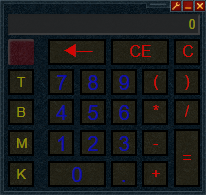
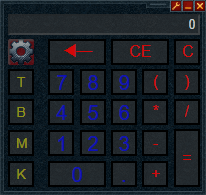
Messed something up during update.

diff --git a/src/index.css b/src/index.css
@@ -10,9 +10,9 @@ a:hover  {color: #a19100; overflow: hidden; white-space: nowrap; text-overflow: 
 /* Button Looks */
 #calculator:focus {outline: none;}
 #display {color: #ffffff; background-color: #383838; text-align: right;}
-#status {color: #fffb0083; background: url('../images/settingscog.png') 0px 0px / cover; background-color: #383838; text-align: center; vertical-align: center; padding: 3px; width: 20px; height: 20px; box-shadow: inset 2px 2px 2px #464646cc; border-radius: 2px;}
+#status {color: #fffb0083; background: url('../images/settingscog.png') 0px 0px / cover; background-color: #F0000055; text-align: center; vertical-align: center; padding: 3px; width: 20px; height: 20px; box-shadow: inset 2px 2px 2px #464646cc; border-radius: 2px;}
 #status:hover {background-position: 0px -26px;}
-.buttons {background-color: #272727e5; margin: 0px; width: 26px; height: 26px;}
+.buttons {background-color: #383838; margin: 0px; width: 26px; height: 26px;}
 .functions {color: #fffb00; margin-right: 10px; font-size: 14px; }
 .operators {color: #ff0000; font-size: 16px;}
 .numbers {color: #0000ff; font-size: 20px;}

diff --git a/src/index.ts b/src/index.ts
@@ -74,10 +74,6 @@ async function initializeApp() {
 		calculator.setupKeyboardSupport();
 		calculator.setupClipboardSupport();
 		calculator.setupRightClickMenu();
-
-		// TODO Add in keyboard support
-
-		// TODO Override Right click to add a copy and paste option
 	} catch (error) {
 		console.error("Initialization error:", error);
 	}
